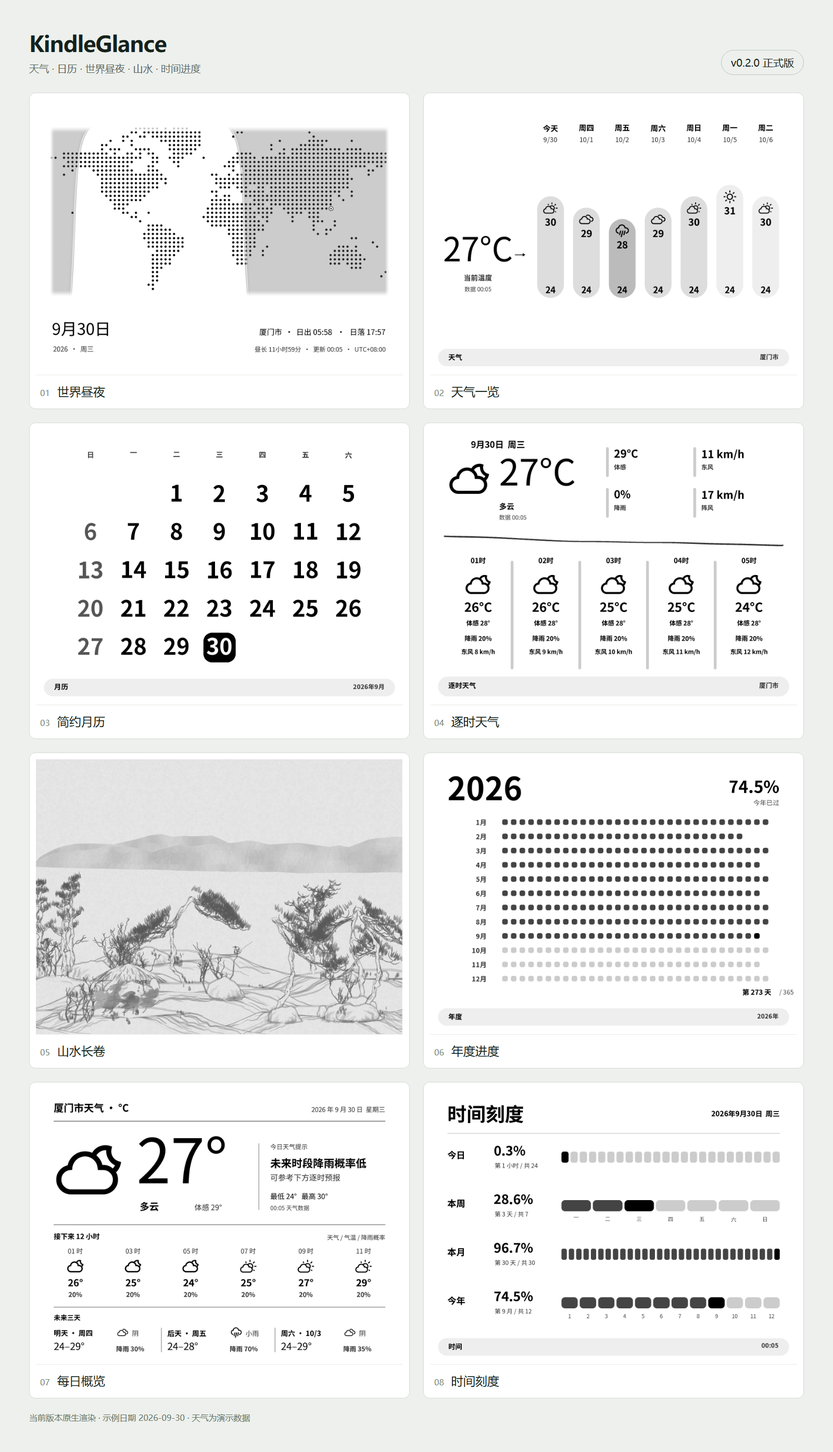
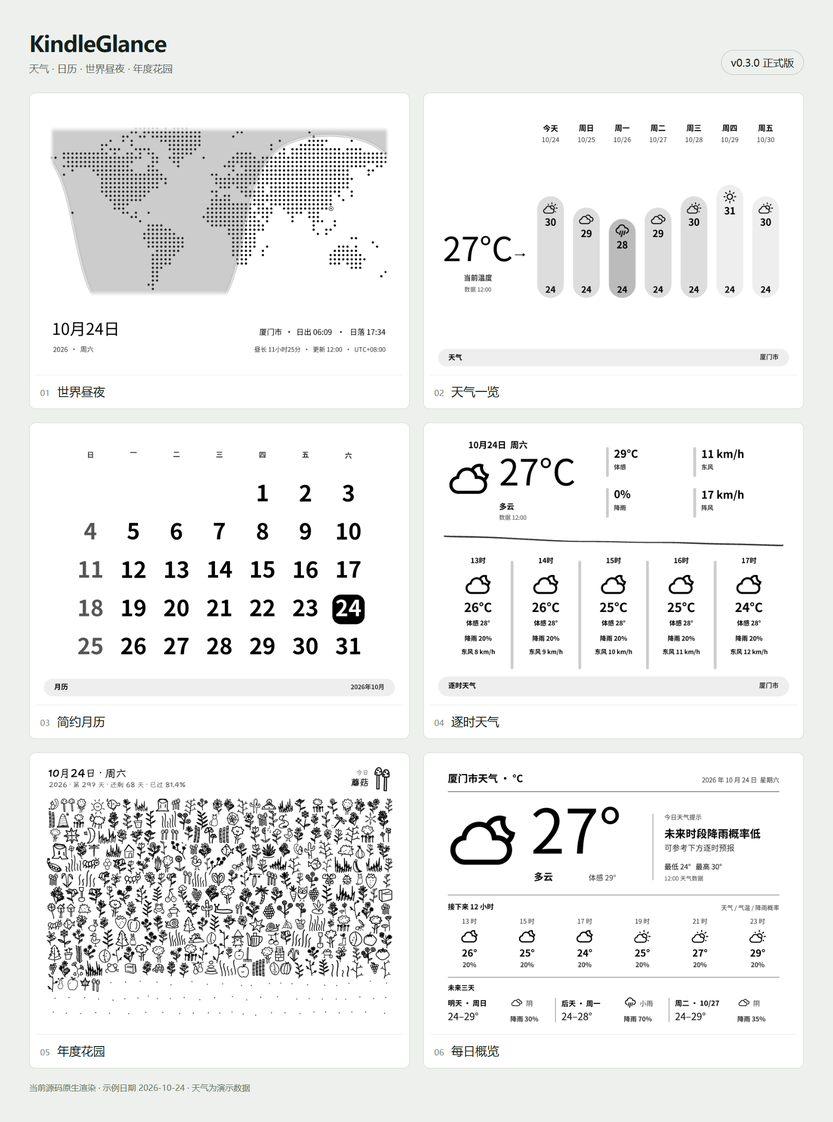
发布 v0.3.0：年度花园与新版看板拼图 (#5)
服务端升到 0.3.0，插件和 A/B 启动器仍为 1.1.0；重新生成看板拼图和设置截图，整理更新记录与文档；修复 Ubuntu 26.04 新版 OpenSSL 下 TLS 测试造过期证书失败。

diff --git a/tools/render_public_previews.py b/tools/render_public_previews.py
@@ -127,7 +127,7 @@ def run(now, output, images_only=False, pages=None):
             .grid{display:grid;grid-template-columns:1fr 1fr;gap:26px}figure{margin:0;padding:12px 12px 0;background:white;border:1px solid #d5dbd3;border-radius:12px;overflow:hidden}
             img{display:block;width:100%;aspect-ratio:4/3;object-fit:contain;background:white}figcaption{padding:16px 8px 18px;font-size:23px;border-top:1px solid #e9ede6}figcaption span{font-size:16px;color:#778775;margin-right:14px}
             footer{margin-top:26px;font-size:16px;color:#657263}
-            </style><main><header><div><h1>KindleGlance</h1><p>天气 · 日历 · 世界昼夜 · 年度花园</p></div><div class="version">main 源码预览</div></header><div class="grid">'''+cards+'''</div><footer>当前源码原生渲染 · 示例日期 '''+now.date().isoformat()+''' · 天气为演示数据</footer></main>'''
+            </style><main><header><div><h1>KindleGlance</h1><p>天气 · 日历 · 世界昼夜 · 年度花园</p></div><div class="version">v0.3.0 正式版</div></header><div class="grid">'''+cards+'''</div><footer>当前源码原生渲染 · 示例日期 '''+now.date().isoformat()+''' · 天气为演示数据</footer></main>'''
             gallery=Path(os.environ['DATA_DIR'])/'gallery.html';gallery.write_text(document,encoding='utf-8')
             page.set_viewport_size({'width':1600,'height':1200})
             page.goto(gallery.as_uri(),wait_until='networkidle')

diff --git a/tools/test_tls_live.py b/tools/test_tls_live.py
@@ -19,7 +19,10 @@ with tempfile.TemporaryDirectory() as folder:
         subprocess.run(['openssl','req','-x509','-newkey','rsa:2048','-nodes','-keyout',str(folder/f'{name}.key'),
                         '-out',str(folder/f'{name}.crt'),'-days','1','-subj',f'/CN={hostname}',
                         '-addext',f'subjectAltName=DNS:{hostname}'],check=True,stdout=subprocess.DEVNULL,stderr=subprocess.DEVNULL)
-    subprocess.run(['openssl','x509','-in',str(folder/'valid.crt'),'-signkey',str(folder/'valid.key'),'-days','-1','-out',str(folder/'expired.crt')],check=True,stdout=subprocess.DEVNULL,stderr=subprocess.DEVNULL)
+    expire=['openssl','x509','-in',str(folder/'valid.crt'),'-signkey',str(folder/'valid.key'),'-out',str(folder/'expired.crt')]
+    # OpenSSL 3.4+ rejects a negative -days; older releases lack -not_before/-not_after.
+    if subprocess.run(expire+['-days','-1'],stdout=subprocess.DEVNULL,stderr=subprocess.DEVNULL).returncode:
+        subprocess.run(expire+['-not_before','20000101000000Z','-not_after','20000102000000Z'],check=True,stdout=subprocess.DEVNULL,stderr=subprocess.DEVNULL)
     shutil.copyfile(folder/'valid.key',folder/'expired.key')
     script=folder/'client.lua'
     script.write_text('''package.path="kindle-plugin/trmnl.koplugin/?.lua;"..package.path

diff --git a/kindle-display/app/setup_routes.py b/kindle-display/app/setup_routes.py
@@ -162,7 +162,7 @@ def install(app, g):
     @app.get("/admin/api/diagnostics")
     def diagnostics(request: Request):
         g["require_admin"](request)
-        return JSONResponse({"version": "0.2.0", "device_profile": "kpw11",
+        return JSONResponse({"version": "0.3.0", "device_profile": "kpw11",
                              "setup_state": g["board_settings"]()["setup_state"],
                              "has_device_fetch": bool((g["read_state"]() or {}).get("last_device_request")),
                              "collector_installed": bool(g["os"].getenv("CODEX_COLLECTOR_URL"))},

diff --git a/tools/build_public_release.py b/tools/build_public_release.py
@@ -25,7 +25,7 @@ def archive(path, entries):
             assert zipfile.read(name) == source.read_bytes()
 
 
-deploy = out/'kindleglance-deploy-0.2.0.zip'
+deploy = out/'kindleglance-deploy-0.3.0.zip'
 archive(deploy, [(p,p.relative_to(ROOT).as_posix()) for p in source_files()])
 plugin=ROOT/'kindle-plugin'
 entries=[(p,'koreader/plugins/trmnl.koplugin/'+p.name) for p in (plugin/'trmnl.koplugin').glob('*.lua')]

diff --git a/CHANGELOG.md b/CHANGELOG.md
@@ -1,6 +1,17 @@
 # Changelog
 
-## 未发布 — 2026-10-18 年度花园每天现画
+## v0.3.0 — 正式版（2026-10-24）
+
+- 服务端 0.3.0。插件 1.1.0 和 A/B 启动器 1.1.0 没有改动，设备包与 v0.2.0 相同，已装好的 Kindle 不用更新。
+- 新增年度花园横屏看板：随日期逐日生长，每天的图案在服务端现画。
+- 移除年度进度、时间刻度和山水长卷三个看板，服务端镜像不再安装 Chromium。现为七类内容（含可选 Codex 用量）。
+- 可选 Codex 采集器自动获取套餐和订阅周期，复用已有授权。
+- 用当前代码重新生成六种看板拼图和日常设置截图。
+- 升级时已有播放列表自动去掉移除的看板，其他设置不变；启用采集器的实例先升级看板再升级采集器。见 [升级说明](docs/UPGRADING.md)。
+
+下面是 v0.2.0 之后合入 main 的各次更新。
+
+### 2026-10-18 年度花园每天现画
 
 - 每天的图案改由服务端现画：沿用同一支笔和原有题材，每幅有自己的结构、方向、比例和轻微弯曲，一年 365 天和不同年份之间都不重复。题材配额、稀有度、季节与排版规则不变。
 - 浆果、多肉、苹果、蜗牛、小屋，以及鱼、无花果、树莓、葡萄、松树、仙人掌、小鸟、苍鹭、小虫、树桩、草莓、星星、铲子、南瓜、原木、刺猬、帐篷、蝴蝶加入结构变化；其他题材沿用原画法自带的参数变化，新增题材保留各自的 A、B 画法。
@@ -9,37 +20,37 @@
 - 画笔代码移至 `kindle-display/app/garden_drawings.py`，素材生成器改为引用它；已提交的 420 幅素材逐字节不变。
 - 修复后台预热读取地区设置的位置：4a1984d 中预热每轮报 `KeyError: 'latitude'` 后跳过，日志刷屏，12 月也不会提前画下一年；画面不受影响，未预热的图在渲染时现画并写入缓存。
 
-## 未发布 — 2026-10-16 移除年度进度、时间刻度与山水长卷
+### 2026-10-16 移除年度进度、时间刻度与山水长卷
 
 - 删除年度进度、时间刻度和山水长卷三个看板，现为七类内容（含可选 Codex 用量）。
 - 山水长卷是唯一使用 Chromium 的看板：服务端镜像不再安装 Chromium，运行依赖去掉 Playwright，渲染不再启动浏览器。Playwright 移至开发依赖，仅用于生成预览画廊。山水绘图资源及其许可证随之移除。
 - 已有播放列表升级后自动去掉这些项，其他项目、顺序和设置不变；若播放列表只剩这些项，则恢复默认播放列表。首次设置的默认选择改为简约月历、天气一览和年度花园。
 - 旧设置中残留的这些选择会被忽略，它们最后渲染的图片不再长期保留；其余画面的设备文件名不变，升级本身不会让 Kindle 多刷新一次。v0.2.0 历史拼图和渲染清单保留原样。
 
-## 未发布 — 2026-10-13 年度花园新增图案与年度配额
+### 2026-10-13 年度花园新增图案与年度配额
 
 - 新增 29 个原创题材共 54 幅图案：蒲公英、狗尾巴草、三叶草、幸运草、薰衣草、牵牛花、绣球、荷花、莲蓬、樱花枝、番茄、豌豆、柿子、葫芦、蜻蜓、兔子、松鼠、小猫、蚂蚁、鼹鼠、稻草人、鸟屋、花盆、手推车、蜂箱、风车、雨靴、雪花和枫叶。素材库共 419 幅，原有 365 幅文件不变。
 - 每年按配额抽取 365 幅：形似的小野花、雏菊、浆果、多肉、苹果和风铃草每年只取一部分并轮换；幸运草、彩虹、帆船、稻草人、小女巫为稀有图案，每年约一半概率出现。花朵占比由 40% 降至约 31%，小动物和园艺物件各升至约 11%。
 - 季节规则扩展到樱花枝、蒲公英、豌豆、荷花、莲蓬、番茄、柿子、枫叶和雪花，并对所有年份生效。2026 年在内的全部年份重新生成每日图案与位置。渲染修订升至 9。
 - 素材生成器在 Windows 与 Linux 上写出相同的 SVG 和清单字节，像素未变的 PNG 不再重写。
 
-## 未发布 — 2026-10-13 年度花园满屏排列
+### 2026-10-13 年度花园满屏排列
 
 - 全年分为 15 行，每行 24 或 25 株，多一株的行按实例和年份随机分配；每行铺满宽度，年末花园填满画面，不再只剩半行。
 - 所有年份（含 2026 年）重新排布一次，取代上一条中保留原排列的做法；同时去掉为今日短线保留的空间。每天对应的图案不变，之后逐日生长不移动已有图案。渲染修订升至 8。
 
-## 未发布 — 2026-10-13 年度花园今日展示与季节
+### 2026-10-13 年度花园今日展示与季节
 
 - 顶部以日期和星期为主，年份、年内天数、剩余天数与已过百分比合并为一行灰色小字，去掉「年度花园」标题。
 - 右上角放大展示当天新长出的图案及中文名，删除花园内的今日短线；短线原有的预留空间保留，今年已有排列不移动。渲染修订升至 7。
 - 自 2027 年起，郁金香、向日葵、南瓜、雪人等 12 种季节性题材只出现在对应月份，同一题材尽量相隔一周；南半球季节错开六个月，地区跨越南北半球时花园重新生成。2026 年及以前的顺序与位置不变。
 
-## 未发布 — 2026-10-03 年度花园轮廓优化
+### 2026-10-03 年度花园轮廓优化
 
 - 年度花园 R6 按完整图案轮廓执行无重叠排列，保护花冠内部留白、开放枝叶、未来种子及今日标记，保留至少 2 像素间隙；全年预留空间与局部微调保持大小层次和小组疏密。
 - 保留每日图案顺序、素材、手绘字体及主要灰度；未来种子按用户确认由灰度 100 收深至 80，大小不变。布局升级重新排布一次，随后逐日增长保持位置稳定。
 
-## 未发布 — 2026-10-02 源码更新
+### 2026-10-02 源码更新
 
 - 新增独立「年度花园」横屏看板：365 幅重绘图案及独立闰日素材，按本地日期生长；实例与年份决定稳定排列，日期变化不移动已有图案。
 - 花园采用图案视觉重量、实际墨迹边界和小组间距安排大小与位置，收紧顶部留白；主体灰度 0，年份和百分比 96，未来种子 176。内置 Yozai / Shantell Sans 手绘字体及 OFL 许可。
@@ -47,8 +58,6 @@
 - 年度进度删除底栏和上方日期刻度，月份点阵左移；年份、已过时间与今日标记突出显示。
 - 可选 Codex 采集器复用已有官方授权，自动读取套餐及订阅周期；额度与订阅独立刷新、退避和标注缓存。移除手工套餐与日期设置，展示快照升级为 v2，看板继续兼容 v1。
 - 补充年度花园、素材来源、自动订阅、备份升级和开发说明；公开导出与部署包包含完整素材、字体、生成器和测试。
-
-以上更新合入源码，尚未创建新的发行标签；v0.2.0 发布附件保持历史版本。
 
 ## v0.2.0 — 正式版（2026-09-30）
 

diff --git a/docs/IMPLEMENTATION_STATUS.md b/docs/IMPLEMENTATION_STATUS.md
@@ -1,20 +1,20 @@
 # 实施进度
 
-当前正式版：**v0.2.0**（2026-09-30），插件 **1.1.0**，A/B 启动器 **1.1.0**。
+当前正式版：**v0.3.0**（2026-10-24），插件 **1.1.0**，A/B 启动器 **1.1.0**。
 
-[源码](https://github.com/jijuwen/kindle-glance) · [正式版下载](https://github.com/jijuwen/kindle-glance/releases/tag/v0.2.0) · [持续集成](https://github.com/jijuwen/kindle-glance/actions)
+[源码](https://github.com/jijuwen/kindle-glance) · [正式版下载](https://github.com/jijuwen/kindle-glance/releases/tag/v0.3.0) · [持续集成](https://github.com/jijuwen/kindle-glance/actions)
 
-## main 源码后续更新（2026-10-02，未打新标签）
+## v0.3.0 正式发布记录
 
-- 新增年度花园横屏看板，365 幅重绘 SVG / PNG、独立闰日图案及 OFL 手绘字体随项目分发；按当地日期生长，实例种子固定全年排列。
-- 花园布局按实际墨迹边界和视觉重量安排大小，小组之间留白；主线宽基准 3.7，未来种子灰度 176，年份与百分比作为次要信息。
-- 管理端横屏预览恢复直立方向；年度进度去除底栏、日期刻度，主体点阵左移。
-- 2026-10-16 移除年度进度、时间刻度和山水长卷三个看板，服务端镜像不再安装 Chromium；已有播放列表升级后自动去掉这些项。
-- 2026-10-18 年度花园改为每天在服务端现画，题材与排版规则不变，灰度受检查约束；当年图案在后台分批预热并缓存。
+- 新增年度花园横屏看板：以 419 幅手绘图案为底稿，另有闰日素材，OFL 手绘字体随项目分发。按当地日期生长，实例种子固定全年排列；每年按配额、稀有度和季节安排题材。
+- 每天的图案由服务端用同一支笔现画，须通过灰度、墨量和长宽比检查；当年图案在后台分批预热并缓存。
+- 移除年度进度、时间刻度和山水长卷三个看板，服务端镜像不再安装 Chromium；已有播放列表升级后自动去掉这些项。
+- 管理端横屏预览直立显示。
 - Codex 套餐及订阅周期自动获取，保留原授权；快照 v2 与 v1 兼容，额度和订阅分别刷新、标注缓存及待更新。
-- 补齐使用、素材来源、开发与备份升级文档，新增不读取私人状态的花园示例；公开清单包含生成器和全部素材。说明见 [年度花园](ANNUAL_GARDEN.md) 及 [更新记录](../CHANGELOG.md)。
+- 补齐花园使用、素材来源、开发与备份升级文档；六种看板拼图和日常设置截图由当前代码重新生成。说明见 [年度花园](ANNUAL_GARDEN.md) 及 [更新记录](../CHANGELOG.md)。
+- 插件和 A/B 启动器没有改动，设备包与 v0.2.0 相同。
 
-本次本地验证：111 项服务端测试、14 项采集器测试、六组 Lua 回归、前端导航和 JavaScript 语法检查通过；公开文件及文档链接检查、密钥扫描和三个归档构建通过。Linux 安装、真实 TLS 及恢复结果以本次源码提交的 CI 为准。以下 93 项记录属于 v0.2.0 正式发布时的验证。
+本地验证：114 项服务端测试、14 项采集器测试、六组 Lua 回归和前端导航通过；公开文件检查和三个归档构建通过。Linux 安装、真实 TLS 及恢复结果以发布提交的 CI 为准。本版没有新的设备端实测。
 
 ## v0.2.0 正式发布记录
 
@@ -27,7 +27,7 @@
 - 八张示例由当前代码重新生成，新增拼图、当前日常设置截图及可复现脚本。天气使用演示数据，不公开私人账号、域名或设备码。
 - 海外 VPS 已部署运行，旧 VPS 看板与采集器已停止。公开仓库不包含个人运维资料、授权、运行数据或日志。
 
-## 验证与交付
+## v0.2.0 验证与交付
 
 93 项服务端测试通过，覆盖配置迁移、缓存、认证、城市搜索、设备码轮换、后台预览和日常设置。另验证采集器、六组 Lua、前端导航及 JavaScript 语法；Linux CI 执行真实 LuaSec TLS、全新安装、九类画面、重启及完整卷恢复。结果以正式发布提交的 [CI](https://github.com/jijuwen/kindle-glance/actions) 为准。
 

diff --git a/previews/README.md b/previews/README.md
@@ -1,8 +1,8 @@
 # 看板示例
 
-下方拼图保留正式版 v0.2.0 的八种看板（其中年度进度、时间刻度和山水长卷已在之后的 main 中移除），示例日期为 2026-09-30，地区为厦门市，时区为 Asia/Shanghai。天气使用固定演示数据，不是实时预报；图片为原生渲染，不是真机实拍。不发布个人账号用量截图。
+下方拼图为正式版 v0.3.0 的六种看板，示例日期为 2026-10-24 12:00，地区为厦门市，时区为 Asia/Shanghai。天气使用固定演示数据，不是实时预报；图片为原生渲染，不是真机实拍。不发布个人账号用量截图。
 
-![八种看板组合展示](showcase.png)
+![六种看板组合展示](showcase.png)
 
 | 看板 | 原图 |
 |---|---|
@@ -10,23 +10,25 @@
 | 天气一览 | [weather-glance.png](weather-glance.png) |
 | 简约月历 | [simple-calendar.png](simple-calendar.png) |
 | 逐时天气 | [hourly-weather.png](hourly-weather.png) |
-| 年度花园（2026-10-18 每天现画） | [annual-garden.png](annual-garden.png) |
+| 年度花园 | [annual-garden.png](annual-garden.png) |
 | 每日概览 | [daily-overview.png](daily-overview.png) |
 
-年度花园于 2026-10-18 更新为 R10：每天的图案在服务端用同一支笔现画，同题材细看各不相同，灰度与比例受检查约束；顶部以日期为主，右上角展示今日图案，每行 24 或 25 株铺满画面，题材按年度配额与季节安排，种子灰度 80。原生横屏 1648×1236；花园使用固定公开示例种子，与私人安装实例无关。最新花园参数见 [selected-render-manifest.json](selected-render-manifest.json)。上方历史拼图不包含年度花园。
+年度花园为 R10：每天的图案在服务端用同一支笔现画，同题材细看各不相同，灰度与比例受检查约束；顶部以日期为主，右上角展示今日图案，每行 24 或 25 株铺满画面，题材按年度配额与季节安排，种子灰度 80。原生横屏 1648×1236；花园使用固定公开示例种子，与私人安装实例无关。生成参数见 [render-manifest.json](render-manifest.json)。
 
-`setup-desktop.png` 来自 v0.2.0 隔离测试实例的日常设置，使用保留示例域名，没有显示设备码或账号资料。
+`setup-desktop.png` 来自 v0.3.0 隔离测试实例的日常设置，使用保留示例域名，没有显示设备码或账号资料。
 
 安装开发依赖、中文字体与 Chromium 后，在项目根目录运行：
 
 ```sh
-python tools/render_public_previews.py --at 2026-09-30T00:05:00+08:00
+python tools/render_public_previews.py --at 2026-10-24T12:00:00+08:00
 ```
 
-当前脚本使用临时数据目录、当前渲染函数与真实管理页面生成六种公开看板（另有可选 Codex 用量页），以 HTML 网格组合原图。运行会更新完整画廊和 [render-manifest.json](render-manifest.json)；仓库现有完整清单仍对应 v0.2.0 的历史生成结果。Windows 可用 FONT_PATH、FONT_BOLD_PATH 指定中文字体。
+脚本使用临时数据目录、当前渲染函数与真实管理页面生成六种公开看板（另有可选 Codex 用量页），以 HTML 网格组合原图，并更新完整画廊和 [render-manifest.json](render-manifest.json)。Windows 可用 FONT_PATH、FONT_BOLD_PATH 指定中文字体。
 
-只重现当前年度花园示例、不启动管理端或拼图浏览器：
+只重现年度花园示例、不启动管理端或拼图浏览器：
 
 ```sh
-python tools/render_public_previews.py --at 2026-10-18T12:00:00+08:00 --images-only --pages annual-garden
+python tools/render_public_previews.py --at 2026-10-24T12:00:00+08:00 --images-only --pages annual-garden
 ```
+
+这会另写一份 `selected-render-manifest.json`，不改动完整画廊的清单。

diff --git a/docs/RELEASE_CHECKLIST.md b/docs/RELEASE_CHECKLIST.md
@@ -1,18 +1,13 @@
-# v0.2.0 正式发布检查
+# v0.3.0 正式发布检查
 
-服务端 0.2.0、插件 1.1.0、A/B 启动器 1.1.0。发行状态与设备验证范围分别记录。
+服务端 0.3.0、插件 1.1.0、A/B 启动器 1.1.0。发行状态与设备验证范围分别记录。v0.2.0 的检查清单见该标签下的同名文件。
 
-- [x] 保留 trmnl.koplugin 与 A/B 两种 KUAL 启动路径。
-- [x] 私有历史留在本地，公开内容使用显式文件清单。
-- [x] 新安装无默认城市；独立密钥、一次性码和管理员密码哈希。
-- [x] 配置修订、迁移、时区、偏好及损坏保护。
-- [x] 管理密码与六位设备码分开；后台预览与独立日常设置。
-- [x] 基础部署与可选采集器分开，展示卷和凭据卷隔离。
-- [x] 许可、安装、升级、备份恢复与兼容文档更新。
-- [x] 93 项服务端测试及城市搜索、设备码线上验证。
-- [x] 采集器、Lua、前端导航与 JavaScript 检查。
-- [x] Linux CI：空卷安装、中文渲染、取图、重启和完整备份恢复，LuaSec TLS 与 Codex CLI 协议检查。
-- [x] 当前代码八张看板示例、组合图和日常设置截图，无私人信息。
+- [x] 插件和 A/B 启动器自 v0.2.0 起没有改动，设备包与 v0.2.0 附件逐字节相同。
+- [x] 年度进度、时间刻度和山水长卷已移除，已有播放列表自动迁移；服务端镜像不再安装 Chromium。
+- [x] 年度花园素材、字体许可和生成器在公开清单与部署包中。
+- [x] 114 项服务端测试、14 项采集器测试、六组 Lua 与前端导航检查。
+- [x] Linux CI：空卷安装、七类页面渲染、取图、重启和完整备份恢复，LuaSec TLS 与 Codex CLI 协议检查。
+- [x] 当前代码六种看板示例、组合图和日常设置截图，无私人信息。
 - [x] 正式版本号、归档逐文件核对与三个 ZIP 的 SHA256SUMS。
 
 仍需现场长期验证：完整 A/B、方向、退出恢复、RTC 和断网矩阵，12/24 小时深睡与功耗，真实生产副本回退演练。这些项目未记作通过，详见 [兼容范围](COMPATIBILITY.md) 和 [进度](IMPLEMENTATION_STATUS.md)。

diff --git a/README.md b/README.md
@@ -2,11 +2,11 @@
 
 把闲置 Kindle 变成天气、日历和生活进度看板。服务端生成灰阶图片，KOReader 插件负责定时取图与省电显示。
 
-**正式版 [v0.2.0](https://github.com/jijuwen/kindle-glance/releases/tag/v0.2.0) 已发布。** 支持地区与时区配置、首次设置和独立日常管理；设备基线为 KPW11 / KOReader v2026.07.1。安装前请阅读 [兼容范围](docs/COMPATIBILITY.md)。
+**正式版 [v0.3.0](https://github.com/jijuwen/kindle-glance/releases/tag/v0.3.0) 已发布。** 支持地区与时区配置、首次设置和独立日常管理；设备基线为 KPW11 / KOReader v2026.07.1。安装前请阅读 [兼容范围](docs/COMPATIBILITY.md)。
 
-![KindleGlance v0.2.0 八种看板拼图](previews/showcase.png)
+![KindleGlance v0.3.0 六种看板拼图](previews/showcase.png)
 
-上图为 v0.2.0 的八种看板，示例日期为 2026-09-30，天气为演示数据。当前 main 分支另包含年度花园、自动订阅信息及预览改进，并已移除图中的年度进度、时间刻度和山水长卷，详见 [更新记录](CHANGELOG.md)；这些源码更新尚未打新的发行标签。
+上图为 v0.3.0 的六种看板（另有可选 Codex 用量），示例日期为 2026-10-24，天气为演示数据。与 v0.2.0 相比，新增年度花园和自动订阅信息，移除了年度进度、时间刻度和山水长卷，详见 [更新记录](CHANGELOG.md)。
 
 ![年度花园横屏原生渲染](previews/annual-garden.png)
 

diff --git a/docs/UPGRADING.md b/docs/UPGRADING.md
@@ -8,6 +8,8 @@
 
 自动订阅更新使用展示快照 v2，看板继续兼容 v1；启用采集器的实例应先升级看板再升级采集器。保留原采集器授权目录，不需要重新授权。年度花园不会自动改变原播放列表，需在管理端主动添加；保留实例种子文件可保持同一年的排列。
 
+从 v0.2.0 升级到 v0.3.0 时，播放列表里的年度进度、时间刻度和山水长卷会自动去掉，其他项目、顺序和设置不变；若列表只剩这些项，则恢复默认播放列表。新镜像不再包含 Chromium。首次运行后，服务端在后台分批画出当年的花园图案，写入 `annual-garden-hands/`。插件和 A/B 启动器没有改动，Kindle 端不需要更新。
+
 回退应恢复**旧镜像和升级前完整数据副本**，不要仅更换镜像。新配置、密码或令牌变更不能假定被旧版识别；回退后使用备份对应的凭据。首次公开版的实际生产副本升级/回退尚待现场验收。
 
 插件升级完整覆盖发布包中的 Lua 文件，保留设置和电源恢复记录。目录继续为 `trmnl.koplugin`，避免两个插件同时加载。A/B 菜单目录保持 `extensions/kindle-board-ab`，仅调整用户可见名称。

diff --git a/docs/DEVELOPMENT.md b/docs/DEVELOPMENT.md
@@ -51,7 +51,7 @@ node kindle-display/test_admin_navigation.cjs
 
 ## Git 和版本边界
 
-- 公开仓库主分支为 `main`，当前正式标签为 `v0.2.0`，组件版本与未发布源码更新见 [CHANGELOG](../CHANGELOG.md)。早期本地 `v1.0.2` 不属于公开仓库的统一发行版。
+- 公开仓库主分支为 `main`，当前正式标签为 `v0.3.0`，组件版本与未发布源码更新见 [CHANGELOG](../CHANGELOG.md)。早期本地 `v1.0.2` 不属于公开仓库的统一发行版。
 - 提交源码、依赖声明、测试、夹具及许可证、构建脚本和当前文档。
 - 排除 `.venv/`、`.local/`、`.cloudflare/`、`backups/`、`dist/`、缓存、日志、设备数据和机器配置；`.env.example` 保留可提交。公开导出以 `tools/public_files.py` 为准，不复制私人 Git 历史或运维档案。
 - 自有文本默认 LF；上游资源、许可证、测试夹具及已有服务端静态文件保留原字节，以便核对部署基线。插件清单记录换行标准化后的 1.0.2 文件哈希。旧版及第三方源码原有行尾空格保留，避免为了格式检查改写基线。

diff --git a/docs/COMPATIBILITY.md b/docs/COMPATIBILITY.md
@@ -1,6 +1,6 @@
 # 兼容与验证范围
 
-当前正式版：服务端 0.2.0，插件 1.1.0，A/B 启动器 1.1.0。
+当前正式版：服务端 0.3.0，插件 1.1.0，A/B 启动器 1.1.0。
 
 | 组合 / 功能 | 验证范围 |
 |---|---|
@@ -10,7 +10,7 @@
 | A/B 启动 | A 普通模式，B 官方 no-framework 参数；进入 KOReader 后均需手动开始看板 |
 | 12/24 小时 RTC、深睡与续航 | 尚未完成完整长期实测 |
 | 其他 Kindle / KOReader 版本 | 未验证 |
-| Linux Docker、非 root 卷、中文渲染 | CI 安装、九类页面、重启与完整卷备份恢复 |
+| Linux Docker、非 root 卷、中文渲染 | CI 安装、七类页面、重启与完整卷备份恢复 |
 | VPS 运行与迁移 | 已部署运行并验证接口；真实生产副本回退演练尚未完整记录 |
 
 首版支持中文、单管理员、一个全局地点、单播放列表和固定 1236×1648 传输画布。正式发布不扩大上述支持范围。
